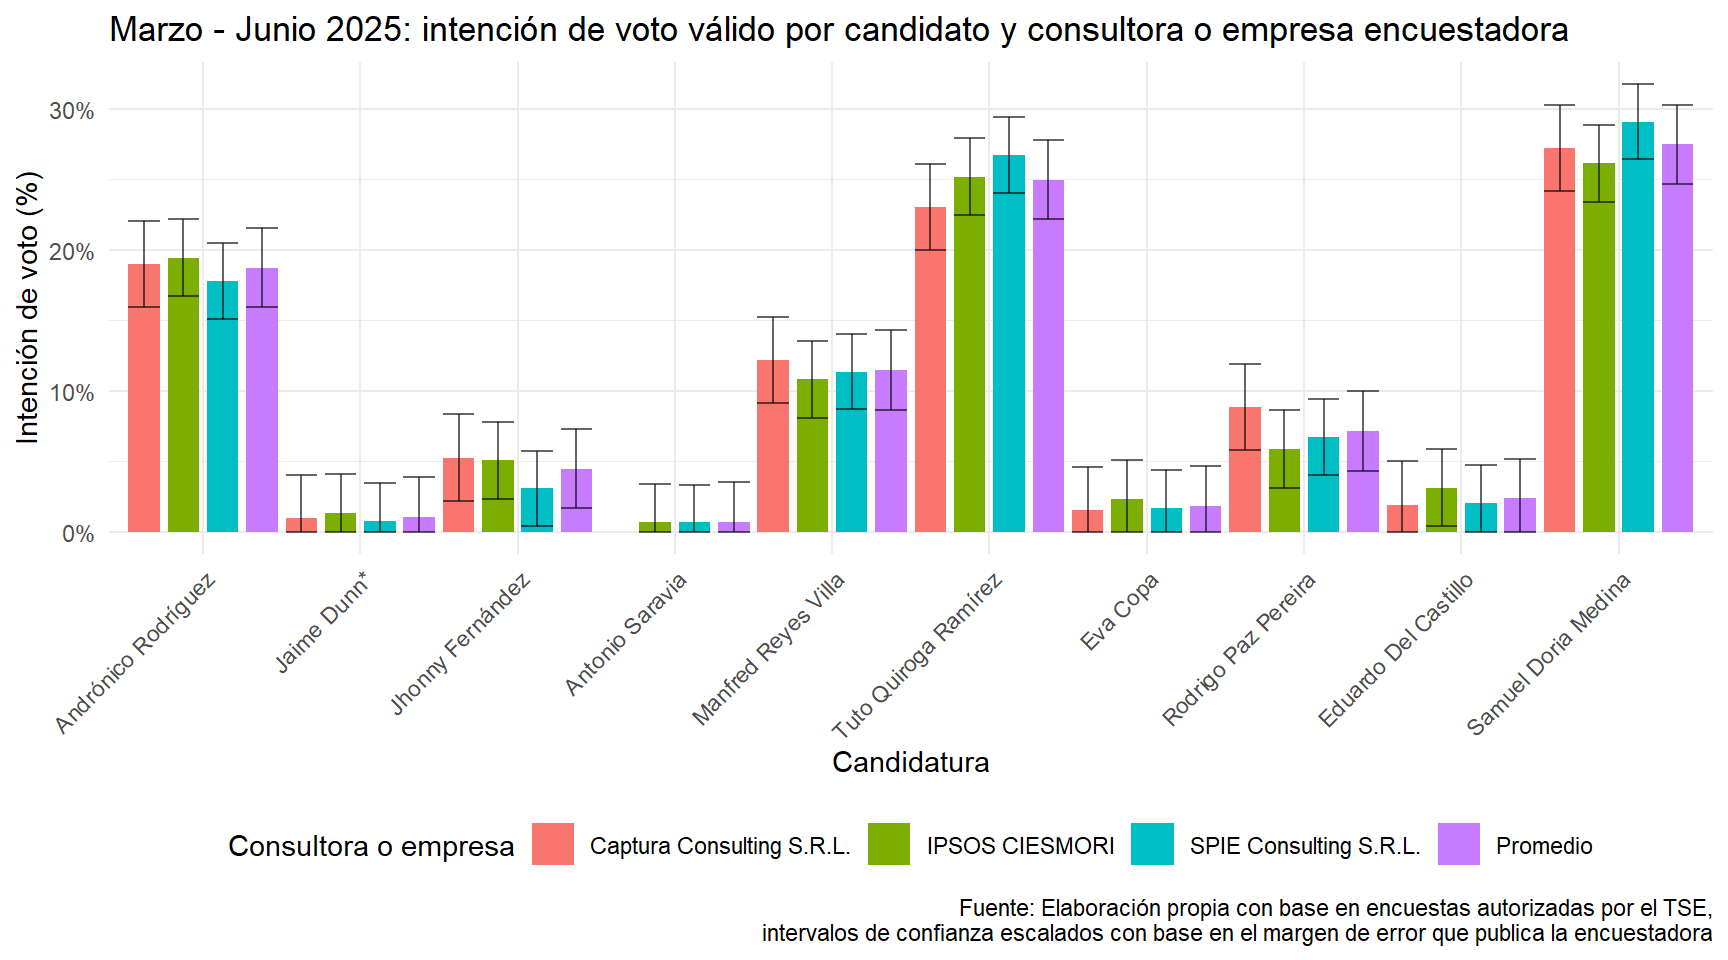
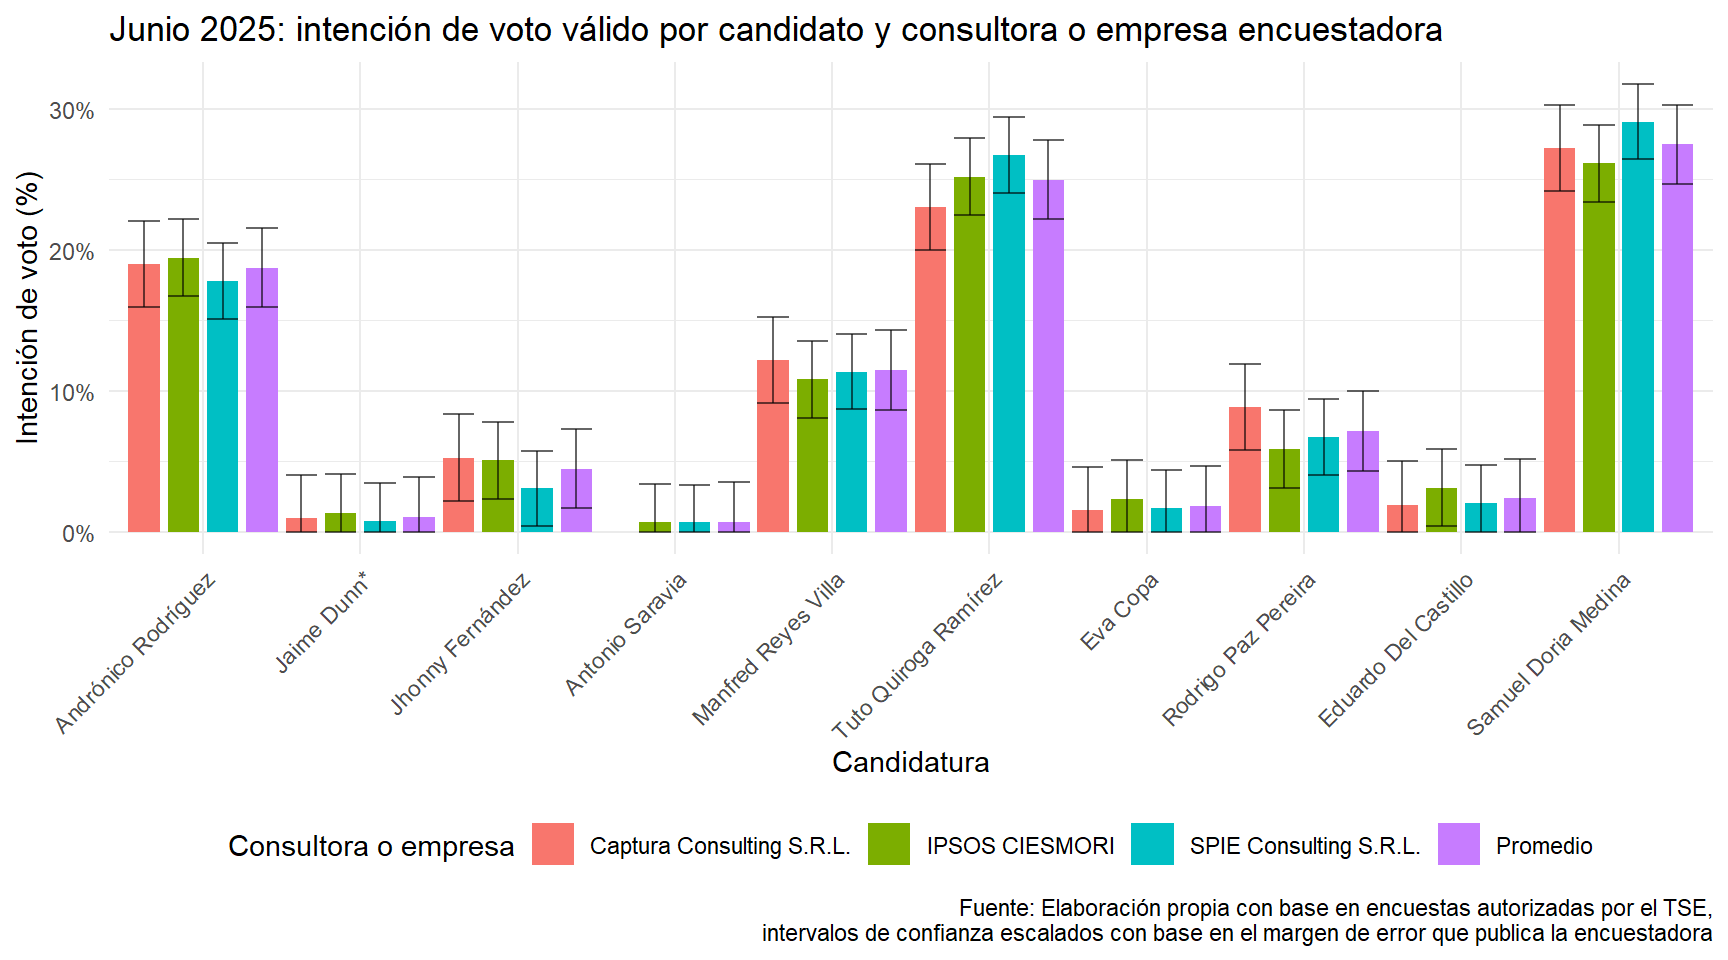
Built site for gh-pages

Changed region(s): [[0.0625, 0.0, 0.9062, 0.0625]]

diff --git a/index.html b/index.html
@@ -59,7 +59,10 @@ ul.task-list li input[type="checkbox"] {
     "search-submit-button-title": "Enviar"
   }
 }</script>
+<meta name="google-site-verification" content="6TMitLunJmIOOgCVNH0qwU8Jp9Fsmi5UhFKj3PyuvGE">
 
+  <script src="https://polyfill.io/v3/polyfill.min.js?features=es6"></script>
+  <script src="https://cdn.jsdelivr.net/npm/mathjax@3/es5/tex-chtml-full.js" type="text/javascript"></script>
 
 <link rel="stylesheet" href="styles.css">
 </head>
@@ -132,7 +135,7 @@ ul.task-list li input[type="checkbox"] {
 <header id="title-block-header" class="quarto-title-block default">
 <div class="quarto-title">
 <h1 class="title">Encuesta de encuestas: Elecciones Generales Bolivia 2025</h1>
-<p class="subtitle lead">Última actualización: 29 de junio de 2025</p>
+<p class="subtitle lead">Última actualización: 30 de junio de 2025</p>
 </div>
 
 
@@ -161,39 +164,50 @@ ul.task-list li input[type="checkbox"] {
 
 <section id="registro-de-cambios" class="level2">
 <h2 class="anchored" data-anchor-id="registro-de-cambios">Registro de cambios</h2>
-<p><strong>29/06/2025</strong>: Se añade información de la segunda encuesta de Captura Consulting publicada por Red Uno y RTP publicada en esta fecha. También se agrega la primera encuesta de la misma consultora, que corresponde al periodo de fines de marzo. No se introduce modificaciones al análisis.</p>
+<p><strong>30/06/2025</strong>: Se añade información de la segunda encuesta de Captura Consulting publicada por Red Uno y RTP publicada en esta fecha. También se agrega la primera encuesta de la misma consultora, que corresponde al periodo de fines de marzo. Se introducen algunas modificaciones menores al análisis e interpretación en función de la nueva información. Optimizaciones, cambios estéticos menores en gráficas y correción ortográfica y de estilo del texto.</p>
 <p><strong>27/06/2025</strong>: Primera publicación con las encuestas de junio (UNITEL y El Deber) y encuesta de Marcelo Claure de fines de marzo como punto de referencia.</p>
 </section>
 <section id="presentación" class="level2">
 <h2 class="anchored" data-anchor-id="presentación">Presentación</h2>
 <p>Este es un ejercicio de análisis electoral y visualización de datos inspirado en el trabajo de <a href="https://polls.politico.mx/">Político.mx</a>, la idea es recopilar en una base de datos públicas las encuestas oficiales (y tal vez las no oficiales) para compararlas en el tiempo. La base de datos se encuentra en este <a href="https://docs.google.com/spreadsheets/d/1Nr5mlVI1PAIXpaOtmRugJbwyriQYlAUt5Ldehq8VZ6E/edit?gid=0#gid=0">archivo de sheets</a> y el diccionario de datos en este <a href="https://docs.google.com/spreadsheets/d/1VJZkKd5dDWnHzbOO3G4o7yeW8jh1GZJIhykaApI05MQ/edit?gid=1761737635#gid=1761737635">otro</a></p>
 <p>Si quieres saber quién soy yo, puedes consultar mi linkedIn <a href="https://www.linkedin.com/in/hescalar/">aquí</a>.</p>
-<p>En esta primera versión he optado por cubrir la mayor cantidad de información disponible y medianamente comparable posible. En este sentido, se ha incluido una encuesta no “oficial”, en el sentido de que no se encuentra autorizada por el Tribunal Supremo Electoral y lo que esto conlleva (validación técnica, levantada en los tiempos establecidos, etc), me refiero a la “súper encuesta” de Marcelo Claura y la consultora “panterra.global”.</p>
+<p>En esta primera versión he optado por cubrir la mayor cantidad de información disponible y medianamente comparable posible. En este sentido, se ha incluido una encuesta no “oficial”, en el sentido de que no se encuentra autorizada por el Tribunal Supremo Electoral y lo que esto conlleva (validación técnica, levantada en los tiempos establecidos, etc), me refiero a la “súper encuesta” de Marcelo Claure y la consultora “panterra.global”.</p>
 <p>De cualquier manera, esta es la única fotografía previa (casi 3 meses atrás) que tiene información sobre los tres primeros lugares, por lo que parece al menos ser un buen punto de referencia para observar algunos cambios en las tendencias.</p>
 </section>
 <section id="gráficos-de-votos-totales" class="level2">
 <h2 class="anchored" data-anchor-id="gráficos-de-votos-totales">Gráficos de votos totales</h2>
-<p>La intención de voto total toma en cuenta a los votos blancos, nulos e indecisos, estos tres representan ahora mismo entre 17 y 27 puntos porcentuales. Para referencia, en la elección de 2020 los blancos y nulos alcanzaron apenas 5% de los votos emitidos, en el proceso electoral de 2019 su proporción fue similar, mientras que en las elecciones generales de 2014 estuvieron cerca del 5.8%.</p>
+<p>La intención de voto total toma en cuenta a los votos blancos, nulos e indecisos, estos tres representan ahora mismo entre 17 y 28 puntos porcentuales. Para referencia, en la elección de 2020 los blancos y nulos alcanzaron apenas 5% de los votos emitidos, en el proceso electoral de 2019 su proporción fue similar, mientras que en las elecciones generales de 2014 estuvieron cerca del 5.8%.</p>
 <div class="cell">
 <div class="cell-output-display">
 <p><img src="index_files/figure-html/grafico-total1-1.png" class="img-fluid" width="864"></p>
 </div>
 </div>
-<p>Los variaciones más grandes entre las encuestas están justamente entre los votos blancos, nulos e indecisos, lo que habla de la volatilidad de este grupo. Si damos por bueno que en la recta final existirán alrededor de 5% de votos nulos y blancos, se puede concluir que, en promedio (17% + 27%)/2 - 5% nulos-blancos) = <strong>17%</strong> del electorado emitirá un voto válido el día de la elección, pero que todavía no se ha decantado por ninguna candidatura. Un contexto de crisis e incertidumbre probablemente retrase esta decisión hasta el último momento, a menos que exista un suceso canónico que permita al elector definirse por una sigla, o al menos, descartar otras. Si observamos los intervalos de confianza y damos por buena el diseño y levantamiento de las encuestas, hay pocas diferencias estadísticamente significativas entre los hallazgos que presentan los medios de comunicación -y las empresas-consultoras encargadas del levantamiento y análisis, La excepción son las estimaciones para los votos indecisos, nulos y los resultados de UNIDAD (Samuel Doria Medina), a quien El Deber sitúa en el primer lugar con cerca del 25%. Si bien UNITEL también declara ganador a Samuel, lo hace con 5% menos, y con una diferencia casi nula con el segundo lugar, ocupado por Tuto Quiroga (LIBRE).</p>
-<p>Si hablamos de las diferencias entre los primeros y segundos lugares, estas no son estadísticamente significativas en ningún caso. El tercer lugar lo ocupa Andrónico Rodríguez (Alianza Popular). Según UNITEL, el presidente del senado se encuentra relativamente cerca de Tuto -alrededor de 4.2 puntos y a casi 5 puntos de Samuel, pero El Deber lo posiciona a más de 7 puntos del segundo lugar y casi 10 puntos del primero. Este margen tan amplio no deja dudas a que alguna de las consultoras está errada, de cualquier manera, podemos darles el beneficio de la duda en tanto que sus levantamientos tuvieron un par de semanas de diferencia: la empresa consultora de UNITEL, IPSOS-CIESMORI realizó su investigación de campo durante la última semana de mayo, mientras que su contraparte SPIE Consulting para El Deber, la llevó a cabo la segunda semana de junio.</p>
-<p>Teniendo en cuenta que probablemente las candidaturas con las campañas más organizadas y con más recursos hasta el momento (Samuel y Tuto) son las que están liderando la intención de voto durante el mes de junio, parece ser que el electorado premia a quienes están haciendo su tarea como candidatos. Tal vez la excepción a la regla es Manfred Reyes Villa, quien a pesar de estar movilizando aparato, recursos y visitando medios de comunicación constantemente, parece no poder proyectarse a nivel nacional. Posteriormente (y en función de mi tiempo disponible) intentaré desagregar el análisis al menos a nivel regional, pues las encuestas observadas presentan errores de estimación muy altos a nivel subnacional, en especial en los departamentos menos poblados.</p>
+<p>Las mayores variaciones entre las encuestas se concentran precisamente en los votos blancos, nulos e indecisos, lo que refleja la volatilidad de este segmento. Para estimar el porcentaje de electores indecisos que emitirán un voto válido, podemos realizar el siguiente cálculo:</p>
+<ol type="1">
+<li><p><strong>Promedio de indecisos en encuestas recientes</strong>:<br>
+<span class="math display">\[
+\text{Promedio}_{\text{indecisos}} = \frac{17\%\,(\text{SPIE}) + 27\%\,(\text{IPSOS}) + 28\%\,(\text{Captura})}{3} = 24\%
+\]</span></p></li>
+<li><p><strong>Ajuste por votos nulos/blancos históricos</strong>:<br>
+Asumiendo que, en etapas finales, alrededor del 5% de los votos serán nulos o blancos (basado en tendencias históricas), el porcentaje estimado de electores indecisos con voto válido sería:<br>
+<span class="math display">\[
+\text{Indecisos}_{\text{válidos}} = \text{Promedio}_{\text{indecisos}} - 5\% = \mathbf{19\%}
+\]</span></p></li>
+</ol>
+<p>Por lo tanto, aproximadamente <strong>19% del electorado</strong> emitirá un voto válido pero aún no se ha definido por ninguna candidatura. En un contexto de crisis, es probable que esta decisión se retrase hasta el último momento, a menos que un evento catalizador permita a los votantes inclinarse por una opción o descartar alternativas.</p>
+<p>Cabe destacar que los hallazgos de todas las encuestadoras muestran cierto grado de consistencia. Todas coinciden en las candidaturas que ocupan el primero, segundo y tercer lugar. Eso sí, las mayores diferencias estadísticamente significativas, es decir, tomando en cuenta los márgenes de error, se dan en la separación porcentual entre los candidatos, como se explica a continuación.</p>
+<p>Llama la atención las estimaciones para la candidatura de UNIDAD (Samuel Doria Medina), a quien SPIE Consulting sitúa en el primer lugar con cerca del 25%, mientras que IPSOS CIESMORI también declara ganador a Samuel, pero lo hace con 5% menos, y con una diferencia casi nula con el segundo lugar, ocupado por Tuto Quiroga (LIBRE). Captura Consulting muestra las mismas tendencias, pero con márgenes todavía más modestos, Samuel sería el ganador con 19.6%, seguido por Tuto Quiroga con 16.6% puntos porcentuales menos; esta diferencia de Captura Consulting comparada con las otras encuestas se explica porque también recoge los niveles de indecisión más altos con 15.5%, al igual que nulos y blancos (12.4% si sumamos estos últimos).</p>
+<p>Si hablamos de las diferencias entre los primeros y segundos lugares, estas no son estadísticamente significativas en ningún caso. El tercer lugar lo ocupa Andrónico Rodríguez (Alianza Popular). Según IPSOS CIESMORI, el presidente del senado se encuentra relativamente cerca de Tuto -alrededor de 4.2 puntos y a casi 5 puntos de Samuel, pero SPIE Consulting lo posiciona a más de 7 puntos del segundo lugar y casi 10 puntos del primero; Captura Consulting pone a Rodríguez a 3 puntos del segundo lugar y 5 puntos del primero. Este margen relativamente amplio y por encima de los errores estadísiticos proyectados puede ser síntoma de que alguna de las consultoras está errada en la distancia entre Rodríguez y el segundo y primer lugar, o de que hay diferencias cualitativas entre el electorado explicados por los cambios en la coyuntura correspondiente los periodos de levantamiento.</p>
+<p>Sobre esto último, IPSOS-CIESMORI realizó su investigación de campo durante la última semana de mayo, SPIE Consulting la llevó a cabo la segunda semana de junio, y Captura Consulting también realizó sus entrevistas durante mediados de junio. Dado que los resultados de IPSOS y Captura muestran mayor consistencia -a pesar de tener 2 semanas entre un operativo estadístico y otro-, parece más probable que las diferencias entre los tres primeros lugares son más pequeñas de lo que a SPIE Consulting (y su medio de comunicación contratante, El Deber) le gustaría.</p>
+<p>Teniendo en cuenta que las candidaturas con las campañas aparentemente más organizadas y con más recursos hasta el momento (Samuel y Tuto) son las que están liderando la intención de voto durante el mes de junio, parece ser que el electorado premia a quienes están haciendo su tarea como candidatos. Tal vez la excepción a la regla es Manfred Reyes Villa, quien a pesar de estar movilizando aparato, recursos y visitando medios de comunicación constantemente, parece no poder proyectarse a nivel nacional. Posteriormente (y en función de mi tiempo disponible) intentaré desagregar el análisis al menos a nivel regional, pues las encuestas observadas presentan errores de estimación muy altos a nivel subnacional, en especial en los departamentos menos poblados.</p>
 <div class="cell">
 <div class="cell-output-display">
 <p><img src="index_files/figure-html/grafico-total2-1.png" class="img-fluid" width="864"></p>
 </div>
 </div>
-<p>Sobra decir que la inestabilidad política, la improvisación de los partidos políticos, la judicialización de la elección y la endeble respuesta del Tribunal Supremo Electoral no han permitido que las campañas despeguen. Muchos de los partidos inician oficialmente sus camapañas este fin de semana (28 de junio). Según el calendario electoral, los partidos pueden presentar sustitutos hasta 45 días antes de la elección en caso de que los candidatos renuncien, esto es, hasta el viernes 4 de julio. En otras palabras, no será hasta esa fecha que se cierren las negociaciones políticas y podamos conocer a las candidaturas “firmes”. Después de ese día, las únicas sustituciones de candidaturas podrán ser por causa de inhabilitación, fallecimiento o incapacidad total.</p>
+<p>Sobra decir que la inestabilidad política, la improvisación de los partidos políticos, la judicialización de la elección y la endeble respuesta del Tribunal Supremo Electoral no han permitido que las campañas despeguen. Muchos de los partidos iniciaron oficialmente sus camapañas el fin de semana del 28 de junio. Según el calendario electoral, los partidos pueden presentar sustitutos hasta 45 días antes de la elección en caso de que los candidatos renuncien, esto es, hasta el viernes 4 de julio. En otras palabras, no será hasta esa fecha que se cierren las negociaciones políticas y podamos conocer a las candidaturas “firmes”. Después de ese día, las únicas sustituciones de candidaturas podrán ser por causa de inhabilitación, fallecimiento o incapacidad total.</p>
 <p>Justamente entrando en la dinámica, es estrepitosa la caída de casi 10 puntos que sufre Andrónico entre fines de marzo y mediados de junio. Mucho ha sucedido en todo este tiempo, el conflicto entre los grupos evistas y el gobierno, su constante inacción ante los embates de sus adversarios (internos y externos) y la escisión definitiva del MAS en tres bloques (el MAS-IPSP como tal, el mismo Andrónico y el grupo evista) parecen haber cobrado una dolorosa factura. Sin embargo, considero también que resulta en el candidato más conciliador y con mayor potencial de crecimiento desde el movimiento popular. Eduardo del Castillo le está representando al MAS-IPSP el nivel de preferencia electoral más bajo en casi 25 años, no me animo a decir si el rechazo se debe a su persona como tal o más bien a que el electorado sigue viendo en él la sombra de Lucho Arce, quién se encuentra en mínimos históricos de aprobación. Y claro, es muy difícil que uno de los ministros más visibles del oficialismo logre desvincular su imagen de la del gobierno arcista a unos meses de las elecciones, por mucho que lo haya estado intentando.Junto el MAS-IPSP se ven 3 candidaturas más que estadísticamente hablando podrían tener votaciones prácticamente nulas, Eva Copa (MORENA), Antonio Saravia (Libertad y Progreso) y Jaime Dunn (Nueva Generación Patriótica).</p>
-<p>Parece ser que aquellos ultra-libertarios que en sus sueños más guajiros pensaron que era posible un Milei boliviano van a amanecer mojados. Esto no quita que, sin importar el gobierno que venga, vendrá el ajuste económico y los correspondientes costos sociales para las clases más vulnerables, pero ese es tema de otro debate.</p>
-<section id="edición" class="level4">
-<h4 class="anchored" data-anchor-id="edición">Edición</h4>
-<p>La segunda encuesta de red uno</p>
-</section>
+<p>Parece ser que aquellos ultra-libertarios que en sus sueños más guajiros pensaron que era posible un Milei boliviano van a amanecer mojados. Esto no quita que, sin importar el gobierno que venga, vendrá el ajuste económico y los correspondientes costos sociales para las clases más vulnerables, pero ese es tema de otro tipo de análisis.</p>
 </section>
 <section id="gráficos-de-votos-válidos" class="level2">
 <h2 class="anchored" data-anchor-id="gráficos-de-votos-válidos">Gráficos de votos válidos</h2>
